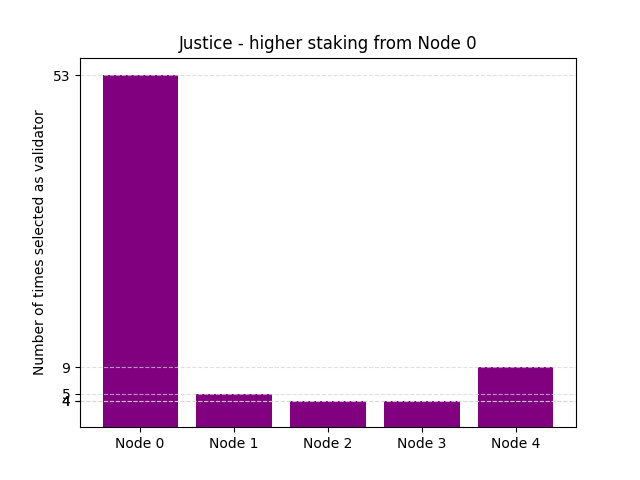
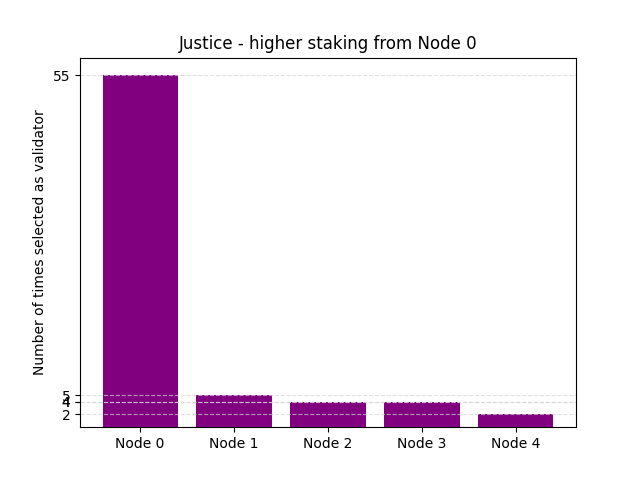
new results

Changed region(s): [[0.0938, 0.75, 0.9062, 0.875], [0.0938, 0.75, 0.125, 0.7812]]

diff --git a/testing/generate_barplot.py b/testing/generate_barplot.py
@@ -4,8 +4,10 @@ import numpy as np
 # Define data for the bar plot
 categories = ['Node 0', 'Node 1', 'Node 2', 'Node 3', 'Node 4']
 
-list_a = [(1711628425.0542803, -1), (1711628449.7006955, 0), (1711628453.1880763, 0), (1711628453.6190894, 4), (1711628453.8243663, 0), (1711628453.83952, 0), (1711628454.0328658, 3), (1711628454.1666148, 0), (1711628454.4045243, 4), (1711628454.4218698, 4), (1711628454.435818, 4), (1711628454.7104416, 3), (1711628454.885575, 4), (1711628455.1787195, 2), (1711628455.3674107, 3), (1711628455.3805244, 3), (1711628455.5645285, 0), (1711628455.7262397, 2), (1711628455.7411702, 2), (1711628455.98145, 4), (1711628456.2665596, 3), (1711628456.2800624, 3), (1711628456.5596068, 2), (1711628456.7309933, 4), (1711628456.7446268, 4), (1711628456.7592437, 4), (1711628456.9714, 0), (1711628456.9849253, 0), (1711628457.2014446, 4), (1711628457.3618162, 2), (1711628457.54017, 0), (1711628457.6883166, 2), (1711628457.8122833, 3), (1711628457.8219914, 3), (1711628458.078986, 4), (1711628458.223009, 3), (1711628458.423888, 0), (1711628458.5885396, 3), (1711628458.598668, 3), (1711628458.6082077, 3), (1711628458.6187854, 3), (1711628458.6292481, 3), (1711628458.8549342, 4), (1711628458.8765311, 4), (1711628459.040114, 3), (1711628459.0493886, 3), (1711628459.2485318, 0), (1711628459.411372, 3), (1711628459.587709, 0), (1711628459.893457, 4), (1711628460.0586038, 2), (1711628460.3432274, 4), (1711628460.554493, 0), (1711628460.572429, 0), (1711628460.5926335, 0), (1711628460.6152372, 0), (1711628460.8137827, 3), (1711628461.0077136, 0), (1711628461.1731734, 2), (1711628461.4562166, 4), (1711628461.4914804, 4), (1711628461.6727355, 3), (1711628461.8772647, 4), (1711628462.0160239, 3), (1711628462.2193906, 4), (1711628462.465586, 0), (1711628462.667526, 2), (1711628462.681503, 2), (1711628462.9154465, 4), (1711628463.0614672, 3), (1711628463.2077582, 2), (1711628463.3171737, 2), (1711628463.6925702, 0), (1711628463.85611, 2), (1711628463.933527, 2), (1711628463.976671, 0), (1711628464.600392, 4)]
-list_b = [(1711628882.228215, -1), (1711628922.8716393, 0), (1711628926.278731, 0), (1711628926.4544916, 0), (1711628926.5548897, 0), (1711628926.6358669, 0), (1711628926.756289, 0), (1711628926.8578458, 0), (1711628927.2092044, 4), (1711628927.3808894, 0), (1711628927.3970108, 0), (1711628927.4113507, 0), (1711628927.655088, 4), (1711628927.82268, 0), (1711628928.008007, 1), (1711628928.1388185, 0), (1711628928.154218, 0), (1711628928.288916, 3), (1711628928.4727902, 0), (1711628928.4876096, 0), (1711628928.501563, 0), (1711628928.5225034, 0), (1711628928.719919, 3), (1711628928.8488364, 0), (1711628929.1310568, 2), (1711628929.2577803, 0), (1711628929.2718034, 0), (1711628929.2846174, 0), (1711628929.384588, 0), (1711628929.471998, 0), (1711628929.7492366, 4), (1711628929.9720268, 0), (1711628930.3187256, 4), (1711628930.46371, 0), (1711628930.4728072, 0), (1711628930.4796267, 0), (1711628930.4865022, 0), (1711628930.804763, 2), (1711628930.9742246, 0), (1711628930.9883246, 0), (1711628930.9999824, 0), (1711628931.0121064, 0), (1711628931.2453363, 4), (1711628931.4694288, 0), (1711628931.5888178, 1), (1711628931.736566, 0), (1711628931.9070275, 1), (1711628932.0980177, 4), (1711628932.2889833, 0), (1711628932.2969534, 0), (1711628932.3049216, 0), (1711628932.538722, 2), (1711628932.8479736, 4), (1711628933.121855, 0), (1711628933.1960495, 3), (1711628933.3207529, 0), (1711628933.3324227, 0), (1711628933.4915218, 1), (1711628933.628817, 0), (1711628933.7462072, 1), (1711628933.92974, 0), (1711628933.9485514, 0), (1711628934.1421087, 2), (1711628934.2902389, 3), (1711628934.4273007, 4), (1711628934.5502486, 0), (1711628934.8429585, 4), (1711628935.0479054, 0), (1711628935.0906863, 0), (1711628935.1325746, 0), (1711628935.159356, 0), (1711628935.1811135, 0), (1711628935.4304507, 0), (1711628935.7390614, 0), (1711628936.0587146, 0), (1711628936.7671123, 0)]
+list_a = [(1712484253.6709123, -1), (1712484305.9418223, 0), (1712484309.0023603, 0), (1712484309.091821, 3), (1712484309.1137393, 3), (1712484309.1740193, 1), (1712484309.25278, 4), (1712484309.3173559, 2), (1712484309.4085019, 3), (1712484309.4621797, 1), (1712484309.4877431, 1), (1712484309.5614378, 3), (1712484309.5788658, 3), (1712484309.6549752, 0), (1712484309.7243643, 3), (1712484309.7662096, 4), (1712484309.805575, 1), (1712484309.880267, 0), (1712484309.953103, 4), (1712484310.0455544, 2), (1712484310.0771165, 2), (1712484310.1221392, 2), (1712484310.2390528, 1), (1712484310.3114066, 4), (1712484310.3786764, 2), (1712484310.4562156, 0), (1712484310.4837763, 0), (1712484310.510134, 0), (1712484310.6380925, 2), (1712484310.7238004, 1), (1712484310.7515714, 1), (1712484310.845082, 0), (1712484310.9118164, 4), (1712484310.9628541, 3), (1712484310.9884255, 3), (1712484311.0125666, 3), (1712484311.0923219, 0), (1712484311.153722, 1), (1712484311.217177, 3), (1712484311.2663667, 0), (1712484311.3615084, 2), (1712484311.454345, 4), (1712484311.504219, 1), (1712484311.5683937, 0), (1712484311.6314495, 3), (1712484311.6506393, 3), (1712484311.6692324, 3), (1712484311.739003, 1), (1712484311.8231537, 2), (1712484311.8874798, 3), (1712484311.9056053, 3), (1712484311.9680052, 4), (1712484312.0051289, 3), (1712484312.0497503, 1), (1712484312.075207, 1), (1712484312.190911, 2), (1712484312.2562635, 1), (1712484312.3324912, 2), (1712484312.4105577, 4), (1712484312.4467208, 1), (1712484312.4743931, 1), (1712484312.5693328, 0), (1712484312.631399, 3), (1712484312.7185767, 2), (1712484312.7746246, 0), (1712484312.8472204, 2), (1712484312.9090676, 3), (1712484312.9498248, 1), (1712484313.02011, 3), (1712484313.0775106, 2), (1712484313.1078577, 0)]
+list_b = [(1712484786.1148458, -1), (1712484803.8918583, 0), (1712484806.9527981, 0), (1712484807.0094423, 0), (1712484807.0495923, 0), (1712484807.1409874, 4), (1712484807.1801314, 0), (1712484807.268399, 2), (1712484807.3343313, 0), (1712484807.3623118, 0), (1712484807.3893855, 0), (1712484807.414351, 0), (1712484807.528959, 1), (1712484807.5991783, 3), (1712484807.6991436, 2), (1712484807.7770352, 0), (1712484807.8039062, 0), (1712484807.8297207, 0), (1712484807.8572564, 0), (1712484807.8850148, 0), (1712484807.9100306, 0), (1712484807.9343495, 0), (1712484807.9613962, 0), (1712484807.9856946, 0), (1712484808.132038, 3), (1712484808.1761107, 0), (1712484808.204254, 0), (1712484808.2296047, 0), (1712484808.2550156, 0), (1712484808.2808106, 0), (1712484808.4163513, 1), (1712484808.483524, 0), (1712484808.5096831, 0), (1712484808.534348, 0), (1712484808.560592, 0), (1712484808.6745608, 1), (1712484808.7325687, 0), (1712484808.761776, 0), (1712484808.7909787, 0), (1712484808.825854, 0), (1712484808.8640254, 0), (1712484809.010138, 1), (1712484809.0847397, 0), (1712484809.1120956, 0), (1712484809.1379023, 0), (1712484809.301026, 4), (1712484809.3662772, 3), (1712484809.4136586, 0), (1712484809.4400837, 0), (1712484809.4713328, 0), (1712484809.5021057, 0), (1712484809.5523925, 0), (1712484809.616523, 0), (1712484809.782756, 0), (1712484809.9467094, 3), (1712484810.0529268, 1), (1712484810.1426146, 0), (1712484810.199838, 0), (1712484810.2254066, 0), (1712484810.2518067, 0), (1712484810.278386, 0), (1712484810.3066335, 0), (1712484810.4716063, 2), (1712484810.5711637, 0), (1712484810.5989158, 0), (1712484810.6251411, 0), (1712484810.8184886, 2), (1712484810.9691484, 0), (1712484811.0095046, 0), (1712484811.0354145, 0), (1712484811.113267, 0)]
+# list_a = [(1711628425.0542803, -1), (1711628449.7006955, 0), (1711628453.1880763, 0), (1711628453.6190894, 4), (1711628453.8243663, 0), (1711628453.83952, 0), (1711628454.0328658, 3), (1711628454.1666148, 0), (1711628454.4045243, 4), (1711628454.4218698, 4), (1711628454.435818, 4), (1711628454.7104416, 3), (1711628454.885575, 4), (1711628455.1787195, 2), (1711628455.3674107, 3), (1711628455.3805244, 3), (1711628455.5645285, 0), (1711628455.7262397, 2), (1711628455.7411702, 2), (1711628455.98145, 4), (1711628456.2665596, 3), (1711628456.2800624, 3), (1711628456.5596068, 2), (1711628456.7309933, 4), (1711628456.7446268, 4), (1711628456.7592437, 4), (1711628456.9714, 0), (1711628456.9849253, 0), (1711628457.2014446, 4), (1711628457.3618162, 2), (1711628457.54017, 0), (1711628457.6883166, 2), (1711628457.8122833, 3), (1711628457.8219914, 3), (1711628458.078986, 4), (1711628458.223009, 3), (1711628458.423888, 0), (1711628458.5885396, 3), (1711628458.598668, 3), (1711628458.6082077, 3), (1711628458.6187854, 3), (1711628458.6292481, 3), (1711628458.8549342, 4), (1711628458.8765311, 4), (1711628459.040114, 3), (1711628459.0493886, 3), (1711628459.2485318, 0), (1711628459.411372, 3), (1711628459.587709, 0), (1711628459.893457, 4), (1711628460.0586038, 2), (1711628460.3432274, 4), (1711628460.554493, 0), (1711628460.572429, 0), (1711628460.5926335, 0), (1711628460.6152372, 0), (1711628460.8137827, 3), (1711628461.0077136, 0), (1711628461.1731734, 2), (1711628461.4562166, 4), (1711628461.4914804, 4), (1711628461.6727355, 3), (1711628461.8772647, 4), (1711628462.0160239, 3), (1711628462.2193906, 4), (1711628462.465586, 0), (1711628462.667526, 2), (1711628462.681503, 2), (1711628462.9154465, 4), (1711628463.0614672, 3), (1711628463.2077582, 2), (1711628463.3171737, 2), (1711628463.6925702, 0), (1711628463.85611, 2), (1711628463.933527, 2), (1711628463.976671, 0), (1711628464.600392, 4)]
+# list_b = [(1711628882.228215, -1), (1711628922.8716393, 0), (1711628926.278731, 0), (1711628926.4544916, 0), (1711628926.5548897, 0), (1711628926.6358669, 0), (1711628926.756289, 0), (1711628926.8578458, 0), (1711628927.2092044, 4), (1711628927.3808894, 0), (1711628927.3970108, 0), (1711628927.4113507, 0), (1711628927.655088, 4), (1711628927.82268, 0), (1711628928.008007, 1), (1711628928.1388185, 0), (1711628928.154218, 0), (1711628928.288916, 3), (1711628928.4727902, 0), (1711628928.4876096, 0), (1711628928.501563, 0), (1711628928.5225034, 0), (1711628928.719919, 3), (1711628928.8488364, 0), (1711628929.1310568, 2), (1711628929.2577803, 0), (1711628929.2718034, 0), (1711628929.2846174, 0), (1711628929.384588, 0), (1711628929.471998, 0), (1711628929.7492366, 4), (1711628929.9720268, 0), (1711628930.3187256, 4), (1711628930.46371, 0), (1711628930.4728072, 0), (1711628930.4796267, 0), (1711628930.4865022, 0), (1711628930.804763, 2), (1711628930.9742246, 0), (1711628930.9883246, 0), (1711628930.9999824, 0), (1711628931.0121064, 0), (1711628931.2453363, 4), (1711628931.4694288, 0), (1711628931.5888178, 1), (1711628931.736566, 0), (1711628931.9070275, 1), (1711628932.0980177, 4), (1711628932.2889833, 0), (1711628932.2969534, 0), (1711628932.3049216, 0), (1711628932.538722, 2), (1711628932.8479736, 4), (1711628933.121855, 0), (1711628933.1960495, 3), (1711628933.3207529, 0), (1711628933.3324227, 0), (1711628933.4915218, 1), (1711628933.628817, 0), (1711628933.7462072, 1), (1711628933.92974, 0), (1711628933.9485514, 0), (1711628934.1421087, 2), (1711628934.2902389, 3), (1711628934.4273007, 4), (1711628934.5502486, 0), (1711628934.8429585, 4), (1711628935.0479054, 0), (1711628935.0906863, 0), (1711628935.1325746, 0), (1711628935.159356, 0), (1711628935.1811135, 0), (1711628935.4304507, 0), (1711628935.7390614, 0), (1711628936.0587146, 0), (1711628936.7671123, 0)]
 
 for i in range(0, len(list_a)):
     list_a[i] = list_a[i][1]
